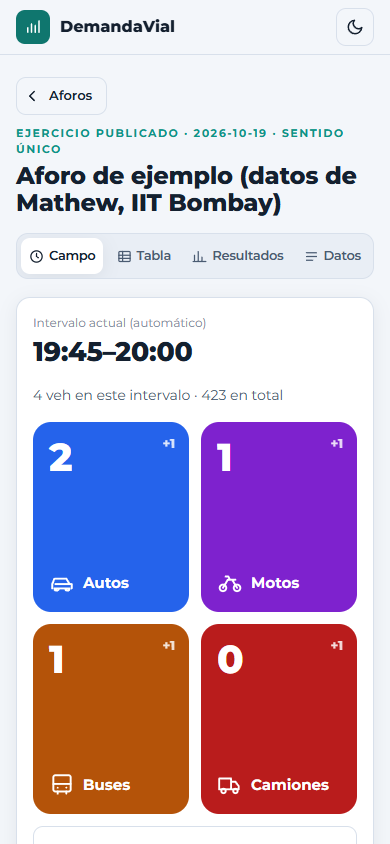
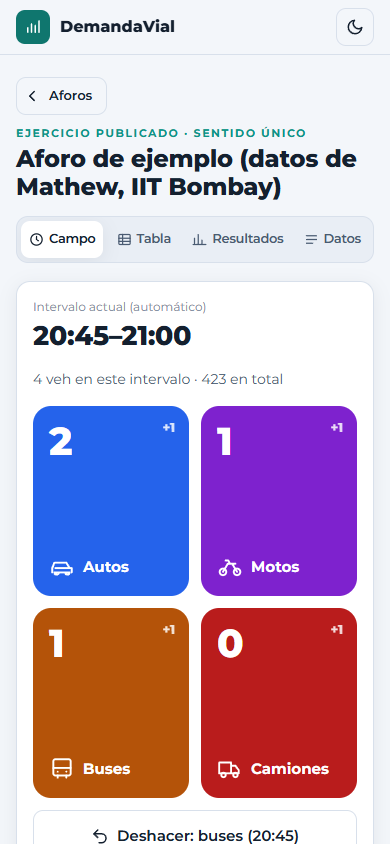
Soporte: capturas y texto sin fecha específica

diff --git a/soporte/soporte.html b/soporte/soporte.html
@@ -19,7 +19,7 @@ p{margin:0 0 4px}
 ul{margin:0;padding-left:18px} li{margin-bottom:2px}
 .pb{break-before:page}
 .shot{border:1px solid #d6dee8;border-radius:6px;display:block;width:100%;object-fit:cover;object-position:top}
-.main{height:112mm;object-fit:contain;background:#f3f6fa}.th{height:62mm}
+.main{height:106mm;object-fit:contain;background:#f3f6fa}.th{height:62mm}
 .tres{display:grid;grid-template-columns:.62fr 1fr 1fr;gap:12px;align-items:start}
 .cap{font-size:8.8pt;margin:4px 0 10px}
 .fila{display:grid;grid-template-columns:1fr 2.1fr;gap:14px;align-items:start}
@@ -75,13 +75,13 @@ ul{margin:0;padding-left:18px} li{margin-bottom:2px}
 
 <h2>Evidencia de autoría</h2>
 <ul>
-<li>Repositorio público con historial de versiones (commits) registradas a nombre del autor desde el 19 de octubre de 2026.</li>
+<li>Repositorio público con historial de versiones (commits) registradas a nombre del autor.</li>
 <li>Aplicación publicada y accesible en el enlace indicado.</li>
 <li>Documentación técnica en el mismo repositorio (README.md y CLAUDE.md) y casos de prueba en <i>casos.js</i> y <i>tests/</i>.</li>
 </ul>
 
 <h2>Evidencia de funcionamiento</h2>
-<p style="color:#5b6b80;margin-bottom:6px">Capturas de la versión publicada en https://demandavial.netlify.app (19 de octubre de 2026), con los datos del ejercicio publicado de Mathew (IIT Bombay).</p>
+<p style="color:#5b6b80;margin-bottom:6px">Capturas de la versión publicada en https://demandavial.netlify.app, con los datos del ejercicio publicado de Mathew (IIT Bombay).</p>
 <img class="shot main" src="1-res-top.png" alt="">
 <p class="cap">1. Resultados: hora pico móvil 17:00–18:00, FHP = 219 / (4 × 65) = 0,842 y gráfica de volumen por intervalo con la hora pico resaltada.</p>
 <div class="tres">
